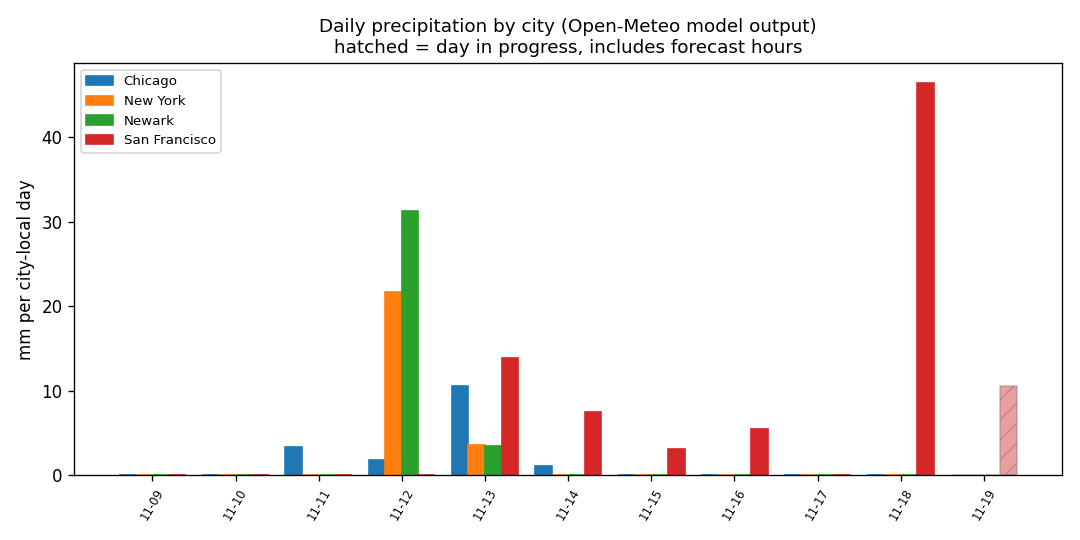
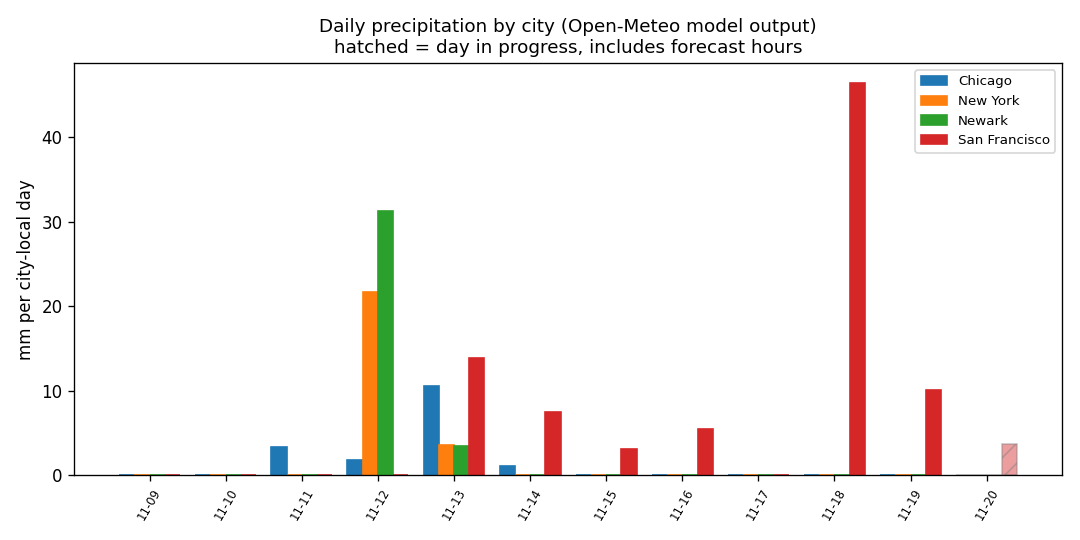
Generate docs/data_model.md from the live schema; tests fail on undocumented or stale columns; refresh data

diff --git a/src/weatherwh/schema_doc.py b/src/weatherwh/schema_doc.py
@@ -1,0 +1,64 @@
+"""Generate docs/data_model.md from the live warehouse schema.
+
+Column names and types come from DuckDB itself, so the doc cannot drift from
+the tables; descriptions are curated below and a test fails when a column has
+none. Run `python scripts/describe_schema.py` after changing a table."""
+from __future__ import annotations
+
+TABLES = {
+    "raw_weather_hourly": "Append-only city/hour records from Open-Meteo. Hours already loaded are refreshed in place when the model revises them. Hours are city-local.",
+    "stg_hourly": "View over raw: typed, deduplicated, with unit-suffixed column names.",
+    "mart_daily_city": "One row per city and city-local day. The current day includes forecast hours.",
+    "mart_exposure_city": "Heat/cold hours and degree-hours per city-day (illustrative thresholds, not clinical guidance).",
+    "fetch_log": "One row per city per fetch: when, how many hours returned, latest hour returned. Drives the source-fetch freshness gate.",
+}
+
+COLUMNS = {
+    "city": "City name from config.CITIES.",
+    "hour": "City-local hour (no timezone offset stored).",
+    "day": "City-local calendar date.",
+    "ingested_at": "When the row was last written or refreshed.",
+    "temperature_2m": "Air temperature at 2 m, degrees C (raw).",
+    "precipitation": "Precipitation, mm (raw, model output).",
+    "wind_speed_10m": "Wind speed at 10 m, km/h (raw).",
+    "temperature_c": "Air temperature, degrees C.",
+    "precipitation_mm": "Precipitation, mm.",
+    "wind_kmh": "Wind speed, km/h.",
+    "avg_temp_c": "Mean of hourly temperature for the day, degrees C.",
+    "min_temp_c": "Lowest hourly temperature, degrees C.",
+    "max_temp_c": "Highest hourly temperature, degrees C.",
+    "total_precip_mm": "Sum of hourly precipitation, mm.",
+    "max_wind_kmh": "Highest hourly wind speed, km/h.",
+    "hours_observed": "Hourly records in the day (24 when complete; model output, not station observations).",
+    "heat_hours": "Hours at or above the heat threshold.",
+    "cold_hours": "Hours at or below the cold threshold.",
+    "heat_degree_hours": "Sum of degrees above the heat threshold across hours.",
+    "cold_degree_hours": "Sum of degrees below the cold threshold across hours.",
+    "fetched_at": "When the fetch ran.",
+    "rows_returned": "Hourly rows returned by that fetch (0 means an empty fetch).",
+    "latest_hour_returned": "Latest weather hour in that fetch (usually later than now: forecast horizon).",
+}
+
+
+def describe(con) -> list[tuple[str, list[tuple[str, str]]]]:
+    """[(table, [(column, type)])] for the documented tables that exist."""
+    out = []
+    for name in TABLES:
+        cols = con.execute(
+            "SELECT column_name, data_type FROM information_schema.columns "
+            "WHERE table_name = ? ORDER BY ordinal_position", [name]).fetchall()
+        if cols:
+            out.append((name, cols))
+    return out
+
+
+def render(con) -> str:
+    lines = ["# Data model", "",
+             "Generated by `scripts/describe_schema.py` from the live DuckDB schema. All values are "
+             "Open-Meteo model output (past days are model output too), not station observations.", ""]
+    for table, cols in describe(con):
+        lines += [f"## {table}", "", TABLES[table], "", "| Column | Type | Description |", "| --- | --- | --- |"]
+        for col, typ in cols:
+            lines.append(f"| {col} | {typ} | {COLUMNS.get(col, 'UNDOCUMENTED')} |")
+        lines.append("")
+    return "\n".join(lines)

diff --git a/tests/test_schema_doc.py b/tests/test_schema_doc.py
@@ -1,0 +1,35 @@
+import datetime as dt
+
+from weatherwh import quality, schema_doc, warehouse
+
+
+def _built():
+    con = warehouse.connect(":memory:")
+    h = dt.datetime(2026, 11, 1, 12)
+    rows = [dict(city="A", hour=h, ingested_at=h, temperature_2m=8.0, precipitation=0.0, wind_speed_10m=5.0)]
+    warehouse.record_fetch(con, rows, ["A"], now=h)
+    warehouse.refresh(con, rows)
+    return con
+
+
+def test_every_real_column_is_documented():
+    con = _built()
+    described = schema_doc.describe(con)
+    assert [t for t, _ in described] == list(schema_doc.TABLES)       # all documented tables exist
+    missing = [(t, c) for t, cols in described for c, _ in cols if c not in schema_doc.COLUMNS]
+    assert missing == []
+    assert "UNDOCUMENTED" not in schema_doc.render(con)
+
+
+def test_render_lists_tables_columns_and_types():
+    md = schema_doc.render(_built())
+    assert "## mart_daily_city" in md and "| total_precip_mm | DOUBLE |" in md
+    assert "## fetch_log" in md and "model output" in md
+
+
+def test_committed_doc_matches_live_schema():
+    """docs/data_model.md must be regenerated when a table changes."""
+    from pathlib import Path
+    doc = Path(__file__).resolve().parents[1] / "docs" / "data_model.md"
+    assert doc.exists(), "run scripts/describe_schema.py"
+    assert doc.read_text(encoding="utf-8") == schema_doc.render(_built())

diff --git a/scripts/describe_schema.py b/scripts/describe_schema.py
@@ -1,0 +1,15 @@
+#!/usr/bin/env python3
+"""Regenerate docs/data_model.md from the warehouse schema."""
+import sys
+from pathlib import Path
+
+ROOT = Path(__file__).resolve().parents[1]
+sys.path.insert(0, str(ROOT / "src"))
+import duckdb
+
+from weatherwh import schema_doc
+
+con = duckdb.connect(str(ROOT / "data" / "warehouse.duckdb"), read_only=True)
+(ROOT / "docs").mkdir(exist_ok=True)
+(ROOT / "docs" / "data_model.md").write_text(schema_doc.render(con), encoding="utf-8")
+print("wrote docs/data_model.md")

diff --git a/docs/data_model.md b/docs/data_model.md
@@ -1,0 +1,67 @@
+# Data model
+
+Generated by `scripts/describe_schema.py` from the live DuckDB schema. All values are Open-Meteo model output (past days are model output too), not station observations.
+
+## raw_weather_hourly
+
+Append-only city/hour records from Open-Meteo. Hours already loaded are refreshed in place when the model revises them. Hours are city-local.
+
+| Column | Type | Description |
+| --- | --- | --- |
+| city | VARCHAR | City name from config.CITIES. |
+| hour | TIMESTAMP | City-local hour (no timezone offset stored). |
+| ingested_at | TIMESTAMP | When the row was last written or refreshed. |
+| temperature_2m | DOUBLE | Air temperature at 2 m, degrees C (raw). |
+| precipitation | DOUBLE | Precipitation, mm (raw, model output). |
+| wind_speed_10m | DOUBLE | Wind speed at 10 m, km/h (raw). |
+
+## stg_hourly
+
+View over raw: typed, deduplicated, with unit-suffixed column names.
+
+| Column | Type | Description |
+| --- | --- | --- |
+| city | VARCHAR | City name from config.CITIES. |
+| hour | TIMESTAMP | City-local hour (no timezone offset stored). |
+| temperature_c | DOUBLE | Air temperature, degrees C. |
+| precipitation_mm | DOUBLE | Precipitation, mm. |
+| wind_kmh | DOUBLE | Wind speed, km/h. |
+
+## mart_daily_city
+
+One row per city and city-local day. The current day includes forecast hours.
+
+| Column | Type | Description |
+| --- | --- | --- |
+| city | VARCHAR | City name from config.CITIES. |
+| day | DATE | City-local calendar date. |
+| avg_temp_c | DOUBLE | Mean of hourly temperature for the day, degrees C. |
+| min_temp_c | DOUBLE | Lowest hourly temperature, degrees C. |
+| max_temp_c | DOUBLE | Highest hourly temperature, degrees C. |
+| total_precip_mm | DOUBLE | Sum of hourly precipitation, mm. |
+| max_wind_kmh | DOUBLE | Highest hourly wind speed, km/h. |
+| hours_observed | BIGINT | Hourly records in the day (24 when complete; model output, not station observations). |
+
+## mart_exposure_city
+
+Heat/cold hours and degree-hours per city-day (illustrative thresholds, not clinical guidance).
+
+| Column | Type | Description |
+| --- | --- | --- |
+| city | VARCHAR | City name from config.CITIES. |
+| day | DATE | City-local calendar date. |
+| heat_hours | BIGINT | Hours at or above the heat threshold. |
+| cold_hours | BIGINT | Hours at or below the cold threshold. |
+| heat_degree_hours | DOUBLE | Sum of degrees above the heat threshold across hours. |
+| cold_degree_hours | DOUBLE | Sum of degrees below the cold threshold across hours. |
+
+## fetch_log
+
+One row per city per fetch: when, how many hours returned, latest hour returned. Drives the source-fetch freshness gate.
+
+| Column | Type | Description |
+| --- | --- | --- |
+| city | VARCHAR | City name from config.CITIES. |
+| fetched_at | TIMESTAMP | When the fetch ran. |
+| rows_returned | BIGINT | Hourly rows returned by that fetch (0 means an empty fetch). |
+| latest_hour_returned | TIMESTAMP | Latest weather hour in that fetch (usually later than now: forecast horizon). |

diff --git a/reports/dashboard.md b/reports/dashboard.md
@@ -1,13 +1,17 @@
 # Weather Warehouse - daily dashboard
 
-Generated 2026-11-19 20:04 UTC.
+Generated 2026-11-20 12:04 UTC.
 
 | city | day | avg_temp_c | min_temp_c | max_temp_c | total_precip_mm | max_wind_kmh | hours_observed |
 | --- | --- | --- | --- | --- | --- | --- | --- |
-| Chicago | 2026-11-19 | 10.98 | 6.0 | 18.6 | 0.0 | 20.9 | 24 |
-| New York | 2026-11-19 | 10.57 | 5.9 | 17.8 | 0.0 | 9.2 | 24 |
-| Newark | 2026-11-19 | 10.39 | 3.7 | 19.5 | 0.0 | 9.7 | 24 |
-| San Francisco | 2026-11-19 | 10.53 | 8.9 | 13.0 | 10.5 | 16.5 | 24 |
+| Chicago | 2026-11-20 | 11.16 | 4.4 | 19.2 | 0.0 | 15.9 | 24 |
+| New York | 2026-11-20 | 11.92 | 5.3 | 20.2 | 0.0 | 10.9 | 24 |
+| Newark | 2026-11-20 | 11.73 | 4.4 | 20.7 | 0.0 | 12.1 | 24 |
+| San Francisco | 2026-11-20 | 9.98 | 8.1 | 12.6 | 3.7 | 15.5 | 24 |
+| Chicago | 2026-11-19 | 11.13 | 6.0 | 18.6 | 0.0 | 20.8 | 24 |
+| New York | 2026-11-19 | 10.98 | 5.9 | 18.6 | 0.0 | 8.6 | 24 |
+| Newark | 2026-11-19 | 10.61 | 3.7 | 19.9 | 0.0 | 9.1 | 24 |
+| San Francisco | 2026-11-19 | 10.85 | 8.8 | 12.7 | 10.1 | 15.9 | 24 |
 | Chicago | 2026-11-18 | 7.84 | 2.6 | 15.5 | 0.0 | 18.4 | 24 |
 | New York | 2026-11-18 | 10.6 | 5.1 | 18.4 | 0.0 | 9.3 | 24 |
 | Newark | 2026-11-18 | 10.43 | 3.1 | 19.3 | 0.0 | 10.5 | 24 |
@@ -30,10 +34,6 @@ Generated 2026-11-19 20:04 UTC.
 | San Francisco | 2026-11-14 | 13.44 | 11.3 | 16.9 | 7.5 | 10.2 | 24 |
 | Chicago | 2026-11-13 | 2.53 | 0.7 | 4.7 | 10.5 | 26.7 | 24 |
 | New York | 2026-11-13 | 5.03 | 3.2 | 8.7 | 3.6 | 22.5 | 24 |
-| Newark | 2026-11-13 | 4.81 | 3.3 | 8.5 | 3.4 | 20.6 | 24 |
-| San Francisco | 2026-11-13 | 13.86 | 11.9 | 15.1 | 13.8 | 21.9 | 24 |
-| Chicago | 2026-11-12 | 4.84 | 3.3 | 6.7 | 1.8 | 26.3 | 24 |
-| New York | 2026-11-12 | 11.47 | 8.8 | 15.7 | 21.7 | 24.5 | 24 |
 
 ## Heat / cold exposure (current window)
 
@@ -52,7 +52,7 @@ Completed days only: daily average temperature vs the city's other days (|z| >= 
 
 | city | day | avg temp C | z-score |
 | --- | --- | ---: | ---: |
-| San Francisco | 2026-11-17 | 10.46 | -2.24 |
+| Chicago | 2026-11-19 | 11.13 | 2.3 |
 
 ## Precipitation
 
@@ -62,7 +62,7 @@ Model output in mm over the window; the current day includes forecast hours.
 
 | city | total mm | wet days (>=1 mm) |
 | --- | ---: | ---: |
-| San Francisco | 86.8 | 6 |
+| San Francisco | 90.1 | 7 |
 | Newark | 34.7 | 2 |
 | New York | 25.3 | 2 |
 | Chicago | 16.7 | 4 |
@@ -73,7 +73,7 @@ Daily rain >= 10 mm or wind >= 50 km/h. Illustrative thresholds, not official we
 
 | city | day | precip mm | max wind km/h | why | day status |
 | --- | --- | ---: | ---: | --- | --- |
-| San Francisco | 2026-11-19 | 10.5 | 16.5 | heavy rain | in progress (includes forecast hours) |
+| San Francisco | 2026-11-19 | 10.1 | 15.9 | heavy rain | complete |
 | San Francisco | 2026-11-18 | 46.4 | 29.3 | heavy rain | complete |
 | Chicago | 2026-11-13 | 10.5 | 26.7 | heavy rain | complete |
 | San Francisco | 2026-11-13 | 13.8 | 21.9 | heavy rain | complete |

diff --git a/README.md b/README.md
@@ -38,6 +38,7 @@ Tracked cities: Newark, New York, Chicago, San Francisco.
 ```bash
 pip install -r requirements.txt
 python scripts/daily_update.py   # ingest, load, test quality, build dashboard
+python scripts/describe_schema.py          # regenerate docs/data_model.md (tests fail if stale)
 python examples/claims_vs_weather.py            # join synthetic claim counts to the mart (demo only)
 python scripts/query.py city Chicago --days 5   # also: latest, severe (read-only)
 python -m pytest                 # offline test suite (in-memory DuckDB)
